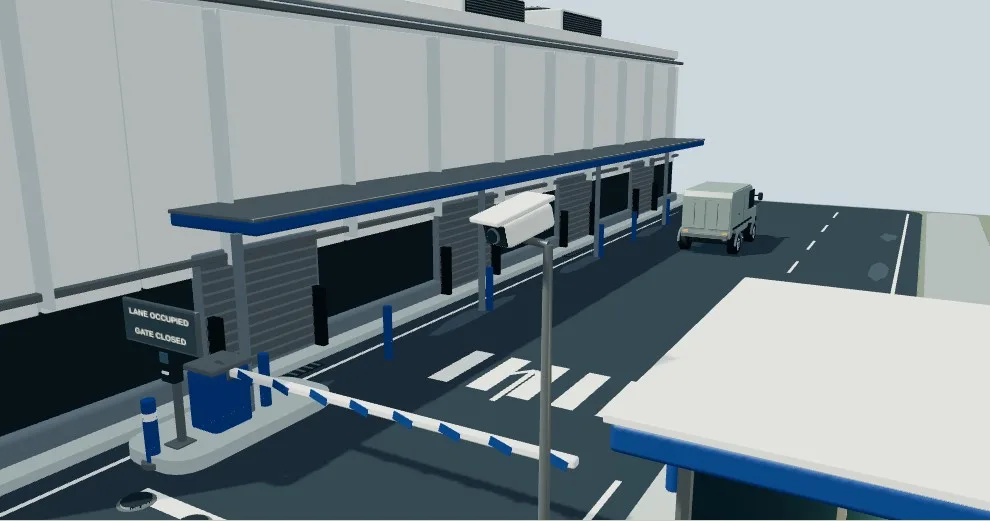
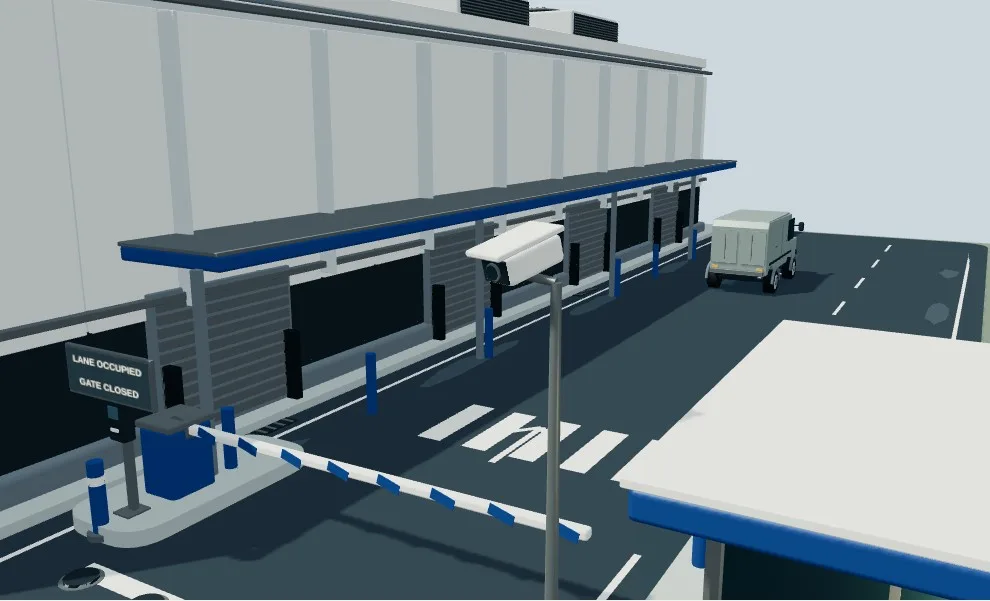
Make data-center incident playback continuous
Replace cut arrivals with a continuous PCHIP camera route through the approach, device inspection, local operator review and guarded reverse. Arrive on the full console before review and preserve readable response intervals while the shared automatic clock advances to the endpoint.

Describe the in-story operator decision, align informational device cues with their views, and regenerate all 21 state images and the overview poster. Physical rigs and action timings remain unchanged. Full automatic desktop/phone playback, camera/source parity, route clearance, optional controls and static/no-WebGL checks pass.

Codex-Agent: tessure-s2
Codex-Session: 01a0d08f-97dc-7d23-a542-7e86fecc1622

Changed region(s): [[0.0, 0.0, 1.0, 1.0], [0.1515, 0.0, 0.4848, 0.0614], [0.6061, 0.5528, 0.6364, 0.5835]]

diff --git a/site/components/worlds/scenes/data-center/content.ts b/site/components/worlds/scenes/data-center/content.ts
@@ -1,51 +1,58 @@
 import type { SceneDefinition, ScenarioVariant, CameraKey } from '../../contract'
 import { T } from './timing'
-const view=(at:number,position:[number,number,number],target:[number,number,number],mobilePosition=position,mobileTarget=target,cut=true):CameraKey=>({at,position,target,mobilePosition,mobileTarget,fov:39,cut,easing:'smoother'})
+const view=(at:number,position:[number,number,number],target:[number,number,number],mobilePosition=position,mobileTarget=target):CameraKey=>({at,position,target,mobilePosition,mobileTarget,fov:39,interpolation:'pchip'})
 const incident:ScenarioVariant={
  id:'vehicle-control-incident',label:'Vehicle approach + control anomaly',role:'primary',duration:T.end,
  lesson:'Physical access and command authority are separate. Correlate relevant evidence, protect the inner lane, then verify the truck and controller locally.',
  establishing:{title:'A working campus, two access boundaries',body:'Authored red-team simulation. A legitimate service van clears the inner lane. Staff use a protected path; a truck approaches the outer stop instruction. Cooling and site power remain on.'},
- poster:'/worlds/data-center/poster.webp',posterAlt:'A truck stopped before raised inner bollards, with a guard at the protected pavilion and a separate local access console.',
+ poster:'/worlds/data-center/poster.webp',posterAlt:'A truck approaching raised inner bollards, with a guard behind the protected pavilion rail and a separate local access console.',
  cameras:[
+ // Approach the outer instruction, then travel along the observed access devices.
  view(0,[34,25,45],[1,2,6],[31,30,48],[5,1.7,10]),
- view(T.detect,[18,10,43],[5,1.5,26],[16,12,44],[5,1.5,27]),
- view(T.crossed,[15,7,35],[4.8,1.5,24],[15,10,36],[4.8,1.5,24]),
- view(T.anomaly,[16,3.5,11.3],[14.05,2.2,7.3],[15.7,3.4,10.8],[14.05,2.2,7.25]),
- view(T.verify,[18,12,29],[5,2,17],[18,15,30],[5,1.8,17]),
- view(16,[12.3,6.5,13.8],[8.65,4.9,7.5],[10.5,5.8,13.2],[8.6,5,7.5]),
- view(18,[13,7.8,26],[1.8,2.3,18.6],[9.8,6.3,19.6],[.7,2.7,15.8]),
- view(T.lane,[4.8,3.8,10],[1.2,2.45,6.2],[4.2,3.2,9],[1.2,2.45,6.2]),
- view(T.correlate,[18,11,25],[5.5,1,11],[19,14,27],[5.5,1,12]),
- view(T.bollardsUp,[16,8,19],[5.5,1,9.5],[17,11,21],[5.5,1,10]),
- view(T.stopped,[9,4.3,6],[5.35,2,9.9],[8.4,3.7,6.3],[5.35,2,9.8]),
- view(T.decide,[20,12,24],[7.5,1.5,10],[21,16,28],[7.5,1.5,11]),
- view(T.respond,[16.6,3.6,11.7],[14.1,2,7.55],[16.2,3.5,11],[14.1,2,7.5]),
- view(T.local,[16.6,3.6,11.7],[14.1,2,7.55],[16.2,3.5,11],[14.1,2,7.5],false),
- view(38,[24,11,23],[13,1.3,8],[25,16,26],[13,1.3,8]),
- view(T.guardReady,[14,4.3,13],[9.9,1.3,7.6],[14,5.5,14],[10,1.3,7.7]),
- view(T.reverse,[22,15,33],[7,1.4,17],[23,20,36],[7.2,1.5,18]),
- view(T.reverseMiddle,[23,14,36],[8.4,1.5,22],[23,20,39],[8.4,1.5,22]),
- view(T.reverseSecond,[23,14,36],[8.4,1.5,22],[23,20,39],[8.4,1.5,22],false),
- view(T.parked,[23,13,39],[10,1.3,24],[24,17,42],[10,1.4,24]),
- view(T.resolve,[27,20,37],[9,1.5,15],[28,25,41],[10,1.5,16]),
+ view(6,[19,11,41],[5,1.6,27],[20,14,44],[5,1.6,27]),
+ view(10,[15,8.8,34],[4.8,1.6,24],[16,10,37],[4.8,1.6,24]),
+ view(14,[16,3.5,11.3],[14.05,2.2,7.3],[15.7,3.4,10.8],[14.05,2.2,7.25]),
+ view(15,[16,3.5,11.3],[14.05,2.2,7.3],[15.7,3.4,10.8],[14.05,2.2,7.25]),
+ view(17,[12.3,6.5,13.8],[8.65,4.9,7.5],[10.5,5.8,13.2],[8.6,5,7.5]),
+ view(17.5,[12.3,6.5,13.8],[8.65,4.9,7.5],[10.5,5.8,13.2],[8.6,5,7.5]),
+ view(20,[9.8,6.3,19.6],[.7,2.7,15.8],[9.8,6.3,19.6],[.7,2.7,15.8]),
+ view(21,[9.8,6.3,19.6],[.7,2.7,15.8],[9.8,6.3,19.6],[.7,2.7,15.8]),
+ view(23,[4.8,3.8,10],[1.2,2.45,6.2],[4.2,3.2,9],[1.2,2.45,6.2]),
+ // Pull above the clear bollard sweep, then show the stopped driver and local review.
+ view(26,[16,8,19],[5.5,1,9.5],[17,11,21],[5.5,1,10]),
+ view(28.5,[10.7,4.8,9.6],[5.5,2,10],[10.3,4.6,9.4],[5.5,2,10]),
+ view(31,[16.6,3.6,11.7],[14.1,2,7.55],[16.2,3.5,11],[14.1,2,7.5]),
+ view(33,[16.6,3.6,11.7],[14.1,2,7.55],[16.2,3.5,11],[14.1,2,7.5]),
+ view(37.5,[16.6,3.6,11.7],[14.1,2,7.55],[16.2,3.5,11],[14.1,2,7.5]),
+ // Stay with the protected staff/guard response before following both reverse arcs.
+ view(41,[23,10,19],[13,1.3,7],[24,13,23],[13,1.3,7]),
+ view(44,[14,4.3,13],[9.9,1.3,7.6],[14,5.5,14],[10,1.3,7.7]),
+ view(44.5,[14,4.3,13],[9.9,1.3,7.6],[14,5.5,14],[10,1.3,7.7]),
+ view(49,[22,12,30],[7,1.4,17],[23,17,34],[7.2,1.5,18]),
+ view(53,[23,13,36],[8.4,1.5,22],[23,18,39],[8.4,1.5,22]),
+ view(55,[23,13,36],[8.4,1.5,22],[23,18,39],[8.4,1.5,22]),
+ view(63,[23,12,38],[10,1.3,24],[24,16,42],[10,1.4,24]),
+ // Follow the local inspection, then retreat continuously to the recorded endpoint.
+ view(66,[20,9,24],[10,1.3,12],[21,11,26],[10,1.3,12]),
  view(68,[14,4.2,12],[10,1.3,7.3],[13.5,4.4,12],[9.9,1.35,7.3]),
- view(T.checked,[16,3.5,11.3],[14.05,2.2,7.3],[15.7,3.4,10.8],[14.05,2.2,7.25]),
- view(76,[32,24,41],[6,1.5,10],[30,28,43],[9,1.5,14]),
- view(T.end,[32,24,41],[6,1.5,10],[30,28,43],[9,1.5,14],false),
+ view(70,[14,4.2,12],[10,1.3,7.3],[13.5,4.4,12],[9.9,1.35,7.3]),
+ view(72,[16,3.5,11.3],[14.05,2.2,7.3],[15.7,3.4,10.8],[14.05,2.2,7.25]),
+ view(74,[16,3.5,11.3],[14.05,2.2,7.3],[15.7,3.4,10.8],[14.05,2.2,7.25]),
+ view(T.end,[32,24,41],[6,1.5,10],[30,28,43],[9,1.5,14]),
  ],
  beats:[
  {id:'detect',at:T.detect,title:'The truck closes on the stop line',body:'The fictional red-team driver accelerates toward the restricted approach. The fixed radar contributes motion and distance; the camera supplies a separate view.',evidence:[{kind:'observed',source:'Approach radar',detail:'An approaching vehicle accelerates toward the marked stopping position.'}],subevents:[
  {id:'stop-crossed',at:T.crossed,title:'Past the outer instruction',body:'The truck passes STOP without waiting. The secure inner gate remains closed; the open apron is not containment.',evidence:[{kind:'observed',source:'Fixed gate camera',detail:'The truck crosses the outer stopping line and continues toward the inner boundary.'}]},
  {id:'commands-rejected',at:T.anomaly,title:'A separate control anomaly',body:'The local access controller rejects unauthorized open commands. This record is independent of the truck observation.',evidence:[{kind:'observed',source:'Local access controller · illustrative',detail:'Remote open requests rejected; closed gate contact unchanged.'},{kind:'uncertainty',source:'Attribution',detail:'The controller record does not establish that the driver sent these commands.'}]}]},
  {id:'verify',at:T.verify,title:'Observe the approach; check the controller',body:'The fixed camera confirms continued approach. The panel radar contributes the approaching track. The local controller independently reports rejection, rather than a successful opening.',evidence:[{kind:'observed',source:'Camera + fixed-panel radar',detail:'A moving truck occupies the authored approach sector. No plate, face or intent recognition is claimed.'},{kind:'observed',source:'Gate contact',detail:'Closed.'}],subevents:[
- {id:'camera-view',at:16,title:'A fixed camera sees the approach',body:'The lens is aimed down the approach. Its contribution is the visible truck and boundary crossing, not the driver’s identity or intent.',evidence:[{kind:'observed',source:'Fixed gate camera',detail:'Truck continues along the restricted approach.'}]},
- {id:'radar-view',at:18,title:'A fixed panel contributes the track',body:'The aimed panel radar independently contributes the moving approach track. Its illustration does not require a rotating scanner or claim calibrated range.',evidence:[{kind:'observed',source:'Approach radar',detail:'Approaching truck remains in the authored sector.'}]},
+ {id:'camera-view',at:17,title:'A fixed camera sees the approach',body:'The lens is aimed down the approach. Its contribution is the visible truck and boundary crossing, not the driver’s identity or intent.',evidence:[{kind:'observed',source:'Fixed gate camera',detail:'Truck continues along the restricted approach.'}]},
+ {id:'radar-view',at:20,title:'A fixed panel contributes the track',body:'The aimed panel radar independently contributes the moving approach track. Its illustration does not require a rotating scanner or claim calibrated range.',evidence:[{kind:'observed',source:'Approach radar',detail:'Approaching truck remains in the authored sector.'}]},
  {id:'lane-presence',at:T.lane,title:'Presence in the inner approach',body:'The ground loop indicates lane presence while the gate contact stays closed. These are different physical states.',evidence:[{kind:'observed',source:'Lane detector + gate contact',detail:'Approach occupied; gate closed. The controller continues to reject open requests.'}]}]},
  {id:'correlate',at:T.correlate,title:'Hold the inner access',body:'Proposed on-site correlation groups the relevant approach and controller records. A preauthorized access hold raises the inner bollards while their swept lane is empty; the truck brakes.',evidence:[{kind:'correlation',source:'Proposed local correlation',detail:'Related place and time group physical and control evidence; this is not proof of a common source.'},{kind:'response',source:'Preauthorized access policy',detail:'Inner bollard hold begins with the lift area empty. Gate remains closed.'}],subevents:[
  {id:'inner-secured',at:T.bollardsUp,title:'Bollards up before arrival',body:'The bollards reach full height before the truck reaches them. The protected inner lane remains closed.',evidence:[{kind:'response',source:'Inner-access state',detail:'Bollards raised; gate closed; no vehicle above the moving mechanisms.'}]},
  {id:'truck-braked',at:T.stopped,title:'The truck stops short',body:'The driver brakes to a stop before the raised bollards. The driver remains at the controls; nobody enters the truck’s path.',evidence:[{kind:'observed',source:'Camera + lane presence',detail:'Truck stationary outside the protected inner boundary.'}]}]},
- {id:'decide',at:T.decide,title:'Keep the boundary; verify locally',body:'Hold vehicle access, isolate remote gate commands and verify locally. The proposed isolation affects the local command path; cooling and site power continue.',action:'Hold access and verify locally',evidence:[{kind:'observed',source:'Current access state',detail:'Truck stopped; inner gate closed and bollards raised.'},{kind:'uncertainty',source:'Investigation',detail:'Vehicle authorization and the source of the rejected commands remain under review.'}]},
- {id:'respond',at:T.respond,title:'An operator takes local authority',body:'After the human decision, the local operator uses the physical console. The guard moves to the protected inspection point and staff move behind the inner boundary.',evidence:[{kind:'response',source:'Authorized local response',detail:'Operator begins the local-only command-path change; the guard and staff stay on protected paths.'}],subevents:[
+ {id:'decide',at:T.decide,title:'The operator reviews the access hold',body:'The on-site operator reviews the stopped truck, secured inner lane and rejected command record, then authorizes local-only gate commands and an on-site check. Cooling and site power continue.',action:'Operator review: keep access closed and verify locally',evidence:[{kind:'observed',source:'Current access state',detail:'Truck stopped; inner gate closed and bollards raised.'},{kind:'uncertainty',source:'Investigation',detail:'Vehicle authorization and the source of the rejected commands remain under review.'}]},
+ {id:'respond',at:T.respond,title:'An operator takes local authority',body:'Following the on-site review, the local operator uses the physical console. The guard moves to the protected inspection point and staff move behind the inner boundary.',evidence:[{kind:'response',source:'Authorized local response',detail:'Operator begins the local-only command-path change; the guard and staff stay on protected paths.'}],subevents:[
  {id:'local-only',at:T.local,title:'Remote commands isolated locally',body:'The console now shows LOCAL ONLY. Cooling stays on. This is local access-command isolation, not a claim of network-wide protection.',evidence:[{kind:'response',source:'Local controller',detail:'Local-only gate-command authority selected; cooling indication unchanged.'}]},
  {id:'guard-ready',at:T.guardReady,title:'A protected direction to the driver',body:'The guard reaches the intercom point behind steel protection and directs the truck toward the open holding apron. Staff continue along the protected path.',evidence:[{kind:'response',source:'Gate team',detail:'Guard in protected position; driver prepares the reverse maneuver.'}]},
  {id:'reversing',at:T.reverse,title:'Reverse into the holding apron',body:'The driver steers and reverses away from the secure inner boundary under guard direction. The wheels roll backward; the truck does not turn in place.',evidence:[{kind:'observed',source:'Authored physical response',detail:'Reverse motion begins after a stopped steering setup.'}]},

diff --git a/site/components/worlds/scenes/data-center/timing.ts b/site/components/worlds/scenes/data-center/timing.ts
@@ -1,5 +1,5 @@
 /** Fictional illustration seconds; shared by physical state and narrative, never measured latency. */
-export const T = { detect:6, crossed:10, anomaly:12, verify:15, lane:20, correlate:24, bollardsUp:26, stopped:29, decide:31, respond:33, local:36, guardStart:36, guardReady:44, reverse:46, reverseMiddle:53, reverseSecond:55, parked:63, wheelsSettled:65, resolve:66, checked:72, end:82 } as const
+export const T = { detect:6, crossed:10, anomaly:12, verify:15, lane:23, correlate:24, bollardsUp:26, stopped:29, decide:31, respond:33, local:36, guardStart:36, guardReady:44, reverse:46, reverseMiddle:53, reverseSecond:55, parked:63, wheelsSettled:65, resolve:66, checked:72, end:82 } as const
 export const controllerState=(t:number)=>t>=T.checked?'CHECK COMPLETE':t>=T.local?'LOCAL ONLY':t>=T.anomaly?'OPEN REJECTED':'REMOTE ENABLED'
 export const gateContact=()=> 'CLOSED'
 export const laneOccupied=(z:number)=>z-3.5<=18&&z+3.5>=14
